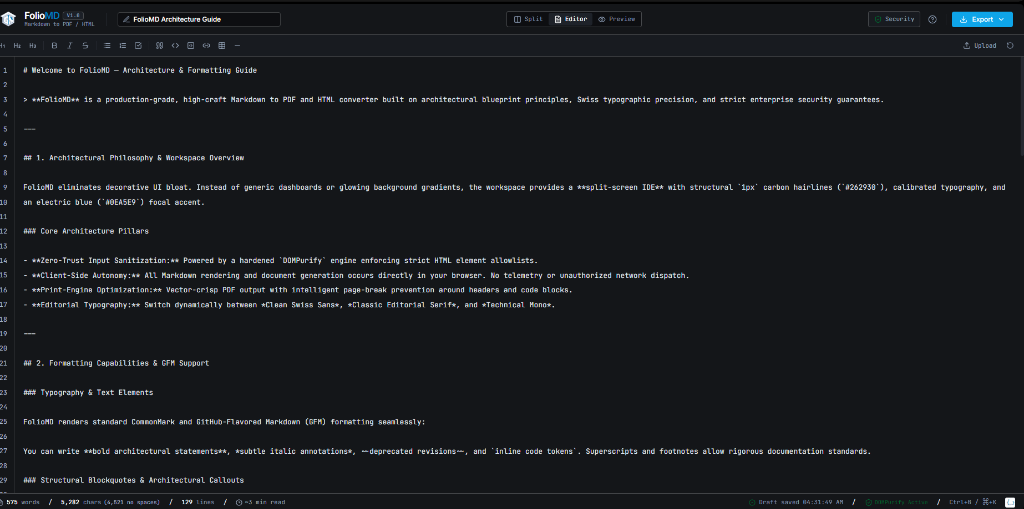
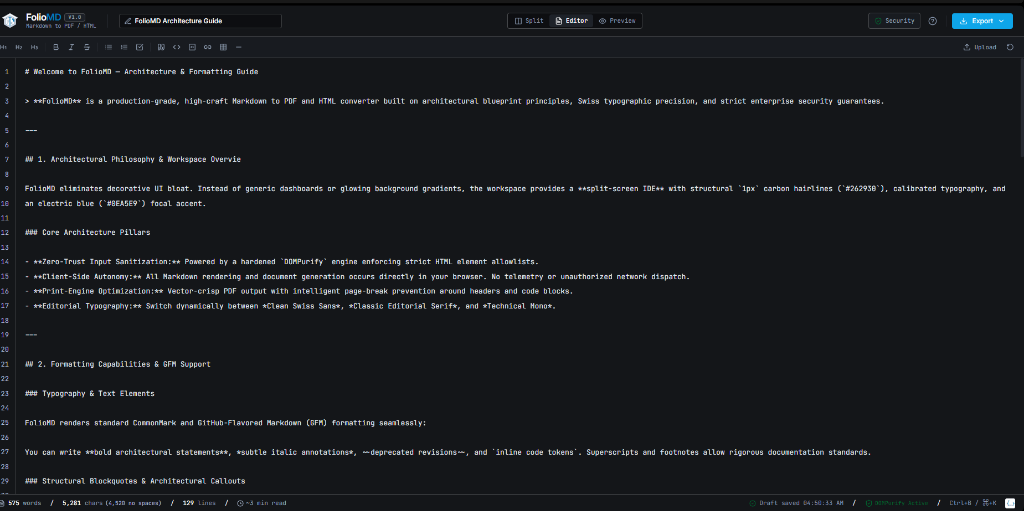
docs: use single hero workspace image in README

diff --git a/README.md b/README.md
@@ -34,19 +34,11 @@ FolioMD eliminates generic dashboard bloat, decorative neon gradients, and float
 - **Keyboard Shortcuts:** `Tab` (2-space indentation without losing focus), `Shift+Tab` (outdent), `Ctrl/Cmd+S` (save notification), `Ctrl/Cmd+P` (vector print).
 - **Drag-and-Drop Ingestion:** Drag `.md`, `.markdown`, or `.txt` files directly into the editor with visual blueprint dropzone feedback.
 
-<p align="center">
-  <img src="docs/screenshots/editor-view.png" alt="FolioMD Editor Only View" width="100%">
-</p>
-
 ### 2. High-Fidelity Live Preview
 - **Full GFM Support:** GitHub-Flavored Markdown rendering including tables, task lists, and blockquote callouts.
 - **Syntax Highlighting:** Integrated `highlight.js` with language detection and one-click code snippet copy buttons.
 - **Interactive Pane Resizer:** Draggable split handle allowing custom width ratios from 25% to 75%.
 - **View Modes:** Toggle seamlessly between **Split View**, **Editor Only**, and **Preview Only**.
-
-<p align="center">
-  <img src="docs/screenshots/preview-view.png" alt="FolioMD Live Preview View" width="100%">
-</p>
 
 ### 3. Curated Editorial Typography & Paper Themes
 - **Typography Styles:**
